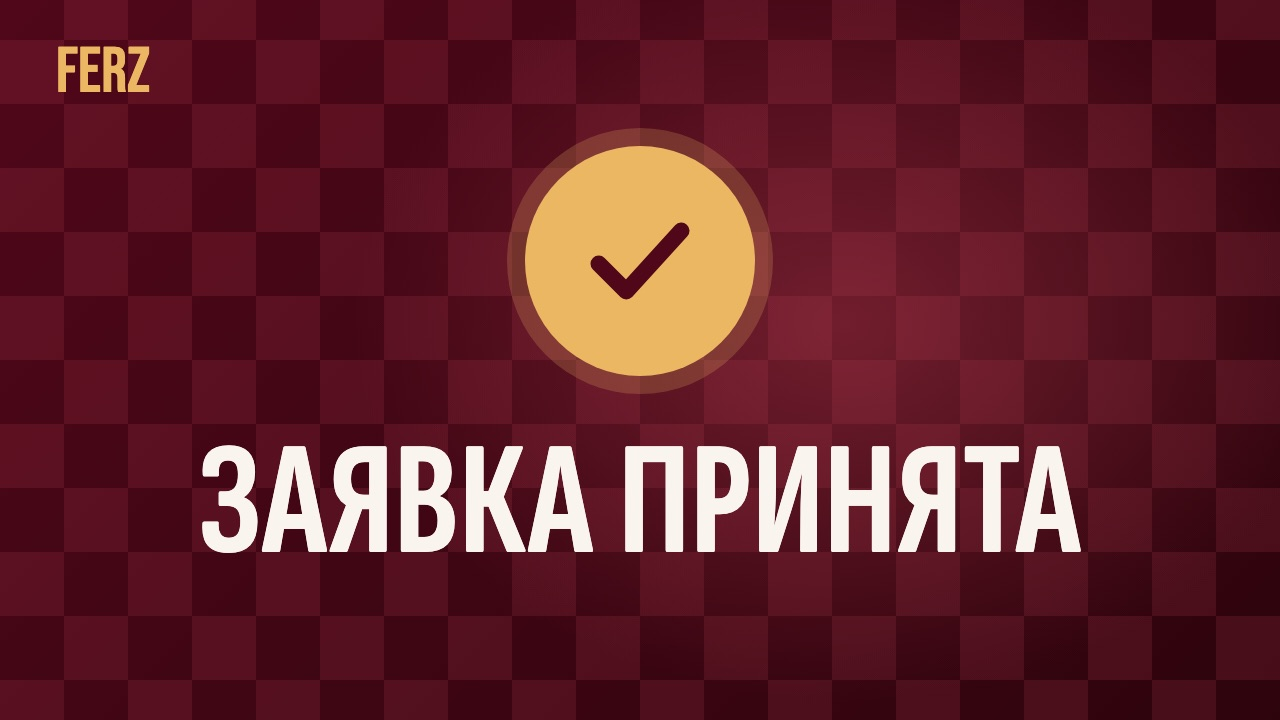
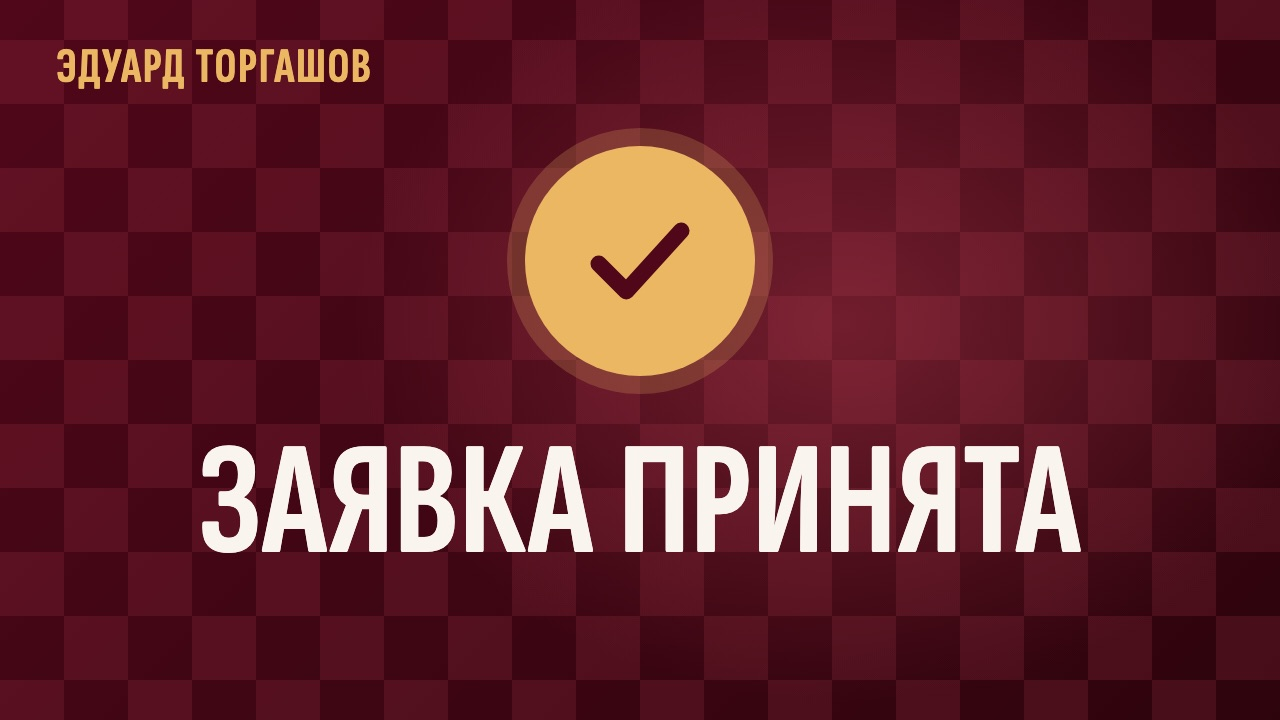
Убрано Ferz из клиентских текстов и картинок
- Приветствие и описание бота без «(Ferz)»
- Три картинки пересобраны без логотипа: на приветствии «Эдуард Торгашов» крупно, на «принята» и «в работе» — мелко в углу
- Служебные описания (докстринг, pyproject, README) без «(Ferz)»
- Тесты: 324 passed
- В STATUS.md записан рабочий запуск бота

Changed region(s): [[0.0312, 0.0611, 0.3125, 0.1528]]

diff --git a/tools/images/welcome.html b/tools/images/welcome.html
@@ -3,9 +3,8 @@
 <link rel="stylesheet" href="common.css">
 <style>
   .text { position: absolute; left: 88px; top: 92px; width: 760px; }
-  .ferz { font-size: 236px; color: var(--accent-400); letter-spacing: 2px; }
-  .name { font-size: 84px; margin-top: 30px; }
-  .lead { font-size: 42px; margin-top: 30px; white-space: nowrap; color: color-mix(in oklch, var(--paper) 88%, transparent); }
+  .name { font-size: 196px; color: var(--accent-400); letter-spacing: 2px; }
+  .lead { font-size: 42px; margin-top: 36px; white-space: nowrap; color: color-mix(in oklch, var(--paper) 88%, transparent); }
   .chips { margin-top: 40px; }
   .portrait {
     position: absolute; right: 0; bottom: -40px; height: 760px;
@@ -17,8 +16,7 @@
        «Челябинск · удалённо». Цен, сроков и плашки с ценой нет (решение заказчика). -->
   <img class="portrait" src="../../../ferz-site/assets/portrait/portrait-waist-960.png" alt="">
   <div class="text">
-    <div class="display ferz">FERZ</div>
-    <div class="display name">ЭДУАРД ТОРГАШОВ</div>
+    <div class="display name">ЭДУАРД<br>ТОРГАШОВ</div>
     <div class="lead">Сайты, Telegram-боты и веб-сервисы</div>
     <div class="chips"><span class="chip">Челябинск · удалённо</span></div>
   </div>

diff --git a/tools/images/in_work.html b/tools/images/in_work.html
@@ -15,11 +15,11 @@
   }
   .badge svg { width: 140px; height: 140px; }
   .title { font-size: 150px; margin-top: 64px; letter-spacing: 1px; }
-  .brand { position: absolute; left: 56px; top: 44px; font-size: 64px; color: var(--accent-400); }
+  .brand { position: absolute; left: 56px; top: 48px; font-size: 46px; letter-spacing: 2px; color: var(--accent-400); }
 </style></head>
 <body>
   <!-- Без номера заявки, имени и сроков: номер — в подписи (texts.CLIENT_TAKEN). Без портрета. -->
-  <div class="display brand">FERZ</div>
+  <div class="display brand">ЭДУАРД ТОРГАШОВ</div>
   <div class="badge">
     <!-- Гаечный ключ своей фигурой: рукоять и головка с зевом, повёрнуты на 45°.
          Зев «вырезан» кругом цвета значка, поэтому иконка не зависит от шрифтов. -->

diff --git a/tools/images/accepted.html b/tools/images/accepted.html
@@ -14,11 +14,11 @@
   }
   .badge svg { width: 132px; height: 132px; }
   .title { font-size: 150px; margin-top: 64px; letter-spacing: 1px; }
-  .brand { position: absolute; left: 56px; top: 44px; font-size: 64px; color: var(--accent-400); }
+  .brand { position: absolute; left: 56px; top: 48px; font-size: 46px; letter-spacing: 2px; color: var(--accent-400); }
 </style></head>
 <body>
   <!-- Без номера заявки и сроков: они в подписи к картинке (texts.SENT). Без портрета. -->
-  <div class="display brand">FERZ</div>
+  <div class="display brand">ЭДУАРД ТОРГАШОВ</div>
   <div class="badge">
     <svg viewBox="0 0 24 24" fill="none" stroke="oklch(0.28 0.102 14)" stroke-width="3"
          stroke-linecap="round" stroke-linejoin="round" aria-hidden="true">

diff --git a/tests/test_client_texts.py b/tests/test_client_texts.py
@@ -92,7 +92,7 @@ def test_popups_have_no_html() -> None:
 
 def test_greeting_keeps_only_site_facts() -> None:
     plain, _ = as_telegram_sees(texts.GREETING)
-    for fact in ("Эдуарда Торгашова (Ferz)", "Челябинска", "удалённо", "в течение дня"):
+    for fact in ("Эдуарда Торгашова", "Челябинска", "удалённо", "в течение дня"):
         assert fact in plain
     assert not re.search(r"\d", plain)  # ни цен, ни сроков в цифрах
 

diff --git a/bot/__init__.py b/bot/__init__.py
@@ -1,1 +1,1 @@
-"""Telegram-бот приёма заявок Эдуарда Торгашова (Ferz)."""
+"""Telegram-бот приёма заявок Эдуарда Торгашова."""

diff --git a/STATUS.md b/STATUS.md
@@ -291,6 +291,13 @@
 - **Долг:** введённые до перезапуска ответы теряются (хранение FSM на диске — отдельное решение); записи `restart_hints` в памяти до перезапуска.
 - **НЕ проверялось (главное):** реальный Telegram после настоящего перезапуска бота — вид подсказки и кнопки, поведение старых кнопок в разных клиентах.
 
+### Рабочий запуск и правки перед сдачей (2026-10-31)
+
+- Бот перенесён на новый токен (рабочий аккаунт заказчика, `ADMIN_ID` — тоже рабочий); имя и юзернейм бота заказчик меняет в @BotFather сам. Рабочая база очищена по просьбе заказчика (удалены тестовые заявки, файл и схема v4 сохранены).
+- По просьбе заказчика «Ferz» убран из всего, что видит клиент: приветствие, описание бота, служебные описания (`bot/__init__.py`, `pyproject.toml`, README), три картинки (в `tools/images/*.html`: на приветствии крупно «ЭДУАРД ТОРГАШОВ», на «принята» и «в работе» — мелко в углу). Ник `@ferzV1` в `FALLBACK_CONTACT` и названия папок/проекта оставлены (решение заказчика).
+- Проверено: `pytest` 324 passed, `ruff`, `mypy` чисто; картинки просмотрены; через API (только чтение) описание и короткое описание нового бота без «Ferz», отдельных описаний по языкам нет. Заказчик подтвердил в реальном Telegram: «всё применилось четко» (на скриншоте до обновления виден кэш клиента — Telegram кэширует описание бота).
+- Бот передан в работу. Остаются в плане: хостинг (VPS, long polling, systemd), `POLICY_URL` после выбора домена, ссылка на сайте после смены юзернейма бота.
+
 ## Этап 2а (Opus) — хранилище SQLite
 
 **Статус:** готово к антибагу. Коммит не делался (по правилам — хранитель git). Бот с реальным `.env` не запускался, в Telegram ничего не отправлялось.

diff --git a/README.md b/README.md
@@ -1,6 +1,6 @@
 # ferz-bot
 
-Telegram-бот приёма заявок для сайта Эдуарда Торгашова (Ferz). Python + aiogram 3, long polling, SQLite.
+Telegram-бот приёма заявок для сайта Эдуарда Торгашова. Python + aiogram 3, long polling, SQLite.
 История решений и этапов — в [`STATUS.md`](STATUS.md) (единственный источник правды); этот файл — как всё устроено и как с этим работать.
 
 ## Содержание
